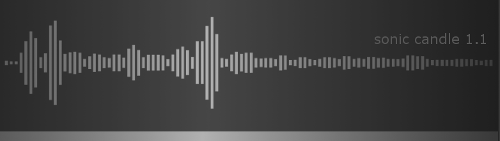
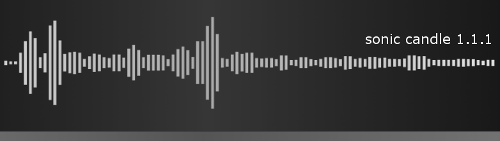
Added cancel ability, finished up disable controls durring render. Updated header to 1.1.1

Changed region(s): [[0.0, 0.0, 1.0, 1.0], [0.15, 0.9078, 0.66, 1.0]]

diff --git a/src/main/java/com/soniccandle/controller/MainController.java b/src/main/java/com/soniccandle/controller/MainController.java
@@ -25,9 +25,11 @@ public class MainController implements ActionListener {
 	public static final String SET_OUTPUT_MP4 = "SET_OUTPUT_MP4";
 	public static final String SET_BG_OTHER_IMAGE = "SET_BG_OTHER_IMAGE";
 	public static final String RENDER = "RENDER";
+	public static final String CANCEL_RENDER = "CANCEL_RENDER";
 	
 	public MainModel m;
 	public MainView v;
+	private RenderSwingWorker renderSwingWorker;
 	
 	public void actionPerformed(ActionEvent e) {
 		if (SET_INPUT_WAV.equals(e.getActionCommand())) {
@@ -109,7 +111,9 @@ public class MainController implements ActionListener {
 				outputter = new ImageSeqVideoOutputter(m.audioFile, m.outputTo);
 			}
 
-			RenderSwingWorker renderSwingWorker = new RenderSwingWorker();
+			renderSwingWorker = new RenderSwingWorker();
+			renderSwingWorker.c = this;
+			renderSwingWorker.m = m;
 			renderSwingWorker.audioFile = m.audioFile;
 			renderSwingWorker.outputTo = m.outputTo;
 			renderSwingWorker.outputter = outputter;
@@ -121,7 +125,6 @@ public class MainController implements ActionListener {
 			renderSwingWorker.outputter.width = renderSwingWorker.width;
 			renderSwingWorker.outputter.height = renderSwingWorker.height;
 			renderSwingWorker.outputter.frameRate = renderSwingWorker.videoFrameRate;
-			renderSwingWorker.progressBar = m.progressBar;
 
 			if (m.flatColorRb.isSelected()) {
 				BufferedImage backgroundImage = new BufferedImage(renderSwingWorker.width, renderSwingWorker.height, BufferedImage.TYPE_INT_ARGB);
@@ -132,7 +135,7 @@ public class MainController implements ActionListener {
 				backgroundImageG.fillRect(0, 0, renderSwingWorker.width, renderSwingWorker.height);
 				renderSwingWorker.backgroundImage = backgroundImage;
 			}
-			else if (m.builtInIimageRb.isSelected()) {
+			else if (m.builtInImageRb.isSelected()) {
 	    		ClassLoader loader = Thread.currentThread().getContextClassLoader();
 	    		BufferedImage backgroundImage = null;
 	    		try {
@@ -163,8 +166,13 @@ public class MainController implements ActionListener {
 			}
 
 			m.progressBar.setEnabled(true);
+			lockWhileRendering();
 			renderSwingWorker.execute();
 			JOptionPane.showMessageDialog(m.pane, "Takes a sec for progress bar to show: give it a moment.");
+		}
+		
+		if (CANCEL_RENDER.equals(e.getActionCommand())) {
+			renderSwingWorker.cancel(true);
 		}
 	}
 
@@ -176,5 +184,37 @@ public class MainController implements ActionListener {
 		} else {
 			m.renderButton.setEnabled(false);
 		}
-	} 
+	}
+	
+	public void lockWhileRendering() {
+		m.setAudioButton.setEnabled(false);
+		m.setOutputButton.setEnabled(false);
+		m.renderButton.setText("cancel render");
+		m.renderButton.setActionCommand(CANCEL_RENDER);
+		m.outputMethod.setEnabled(false);
+		m.bgColorGreen.setEnabled(false);
+		m.bgColorBlue.setEnabled(false);
+		m.bgColorRed.setEnabled(false);
+		m.flatColorRb.setEnabled(false);
+		m.builtInImageRb.setEnabled(false);
+		m.bgBuiltIn.setEnabled(false);
+		m.otherImageRb.setEnabled(false);
+		m.setBgOtherImageButton.setEnabled(false);
+	}
+	
+	public void unlockAfterRender() {
+		m.setAudioButton.setEnabled(true);
+		m.setOutputButton.setEnabled(true);
+		m.renderButton.setText("render");
+		m.renderButton.setActionCommand(RENDER);
+		m.outputMethod.setEnabled(true);
+		m.bgColorGreen.setEnabled(true);
+		m.bgColorBlue.setEnabled(true);
+		m.bgColorRed.setEnabled(true);
+		m.flatColorRb.setEnabled(true);
+		m.builtInImageRb.setEnabled(true);
+		m.bgBuiltIn.setEnabled(true);
+		m.otherImageRb.setEnabled(true);
+		m.setBgOtherImageButton.setEnabled(true);
+	}
 }

diff --git a/src/main/java/com/soniccandle/view/MainView.java b/src/main/java/com/soniccandle/view/MainView.java
@@ -47,7 +47,6 @@ public class MainView {
 
 		GridBagConstraints topC = new GridBagConstraints();
 		topC.fill = GridBagConstraints.HORIZONTAL;
-		JButton button;
 		JLabel label;
 
 		JLabel headerLabel = getHeaderLabel();
@@ -66,13 +65,13 @@ public class MainView {
 		inOutC.insets = new Insets(5, 5, 5, 5);
 		inOutC.fill = GridBagConstraints.BOTH;
 
-		button = new JButton("set input wav");
-		button.setActionCommand(MainController.SET_INPUT_WAV);
-		button.addActionListener(c);
+		m.setAudioButton = new JButton("set input wav");
+		m.setAudioButton.setActionCommand(MainController.SET_INPUT_WAV);
+		m.setAudioButton.addActionListener(c);
 		inOutC.weightx = 0.2;
 		inOutC.gridx = 0;
 		inOutC.gridy = 0;
-		inOutPanel.add(button, inOutC);
+		inOutPanel.add(m.setAudioButton, inOutC);
 
 		m.audioFileNameLabel = new JLabel("  (no file chosen)");
 		m.audioFileNameLabel.setOpaque(true);
@@ -98,13 +97,13 @@ public class MainView {
 		inOutC.gridy = 1;
 		inOutPanel.add(m.outputMethod, inOutC);
 
-		button = new JButton("set output location");
-		button.setActionCommand(MainController.SET_OUTPUT_MP4);
-		button.addActionListener(c);
+		m.setOutputButton = new JButton("set output location");
+		m.setOutputButton.setActionCommand(MainController.SET_OUTPUT_MP4);
+		m.setOutputButton.addActionListener(c);
 		inOutC.weightx = 0.2;
 		inOutC.gridx = 0;
 		inOutC.gridy = 2;
-		inOutPanel.add(button, inOutC);
+		inOutPanel.add(m.setOutputButton, inOutC);
 
 		m.outputToNameLabel = new JLabel("  (no file or folder chosen)");
 		m.outputToNameLabel.setOpaque(true);
@@ -138,13 +137,13 @@ public class MainView {
 		bgC.gridy = 0;
 		bgPanel.add(m.flatColorRb, bgC);
 
-		m.builtInIimageRb = new JRadioButton(BG_BUILT_IN_IMAGE);
-		m.builtInIimageRb.setActionCommand(BG_BUILT_IN_IMAGE);
-		m.builtInIimageRb.addActionListener(c);
-		m.bgTypeGroup.add(m.builtInIimageRb);
+		m.builtInImageRb = new JRadioButton(BG_BUILT_IN_IMAGE);
+		m.builtInImageRb.setActionCommand(BG_BUILT_IN_IMAGE);
+		m.builtInImageRb.addActionListener(c);
+		m.bgTypeGroup.add(m.builtInImageRb);
 		bgC.gridx = 1;
 		bgC.gridy = 0;
-		bgPanel.add(m.builtInIimageRb, bgC);
+		bgPanel.add(m.builtInImageRb, bgC);
 
 		m.otherImageRb = new JRadioButton(BG_OTHER_IMAGE);
 		m.otherImageRb.setActionCommand(BG_OTHER_IMAGE);
@@ -195,10 +194,10 @@ public class MainView {
 		label = new JLabel("background image, png or jpg, "+Main.WIDTH+"x"+Main.HEIGHT);
 		m.bgOtherImagePanel.add(label);
 
-		button = new JButton("set");
-		button.setActionCommand(MainController.SET_BG_OTHER_IMAGE);
-		button.addActionListener(c);
-		m.bgOtherImagePanel.add(button);
+		m.setBgOtherImageButton = new JButton("set");
+		m.setBgOtherImageButton.setActionCommand(MainController.SET_BG_OTHER_IMAGE);
+		m.setBgOtherImageButton.addActionListener(c);
+		m.bgOtherImagePanel.add(m.setBgOtherImageButton);
 
 		m.bgImageNamelabel = new JLabel("  (no file chosen)  ");
 		m.bgImageNamelabel.setOpaque(true);

diff --git a/src/main/java/com/soniccandle/controller/RenderSwingWorker.java b/src/main/java/com/soniccandle/controller/RenderSwingWorker.java
@@ -5,9 +5,9 @@ import java.io.File;
 import java.util.List;
 
 import javax.swing.JOptionPane;
-import javax.swing.JProgressBar;
 import javax.swing.SwingWorker;
 
+import com.soniccandle.model.MainModel;
 import com.soniccandle.model.SimpleRenderer;
 import com.soniccandle.model.VideoOutputter;
 import com.soniccandle.model.XuggleVideoOutputter;
@@ -21,7 +21,8 @@ public class RenderSwingWorker extends SwingWorker<Boolean, Integer> {
 	public File outputTo;
 	public VideoOutputter outputter;
 	public BufferedImage backgroundImage;
-	public JProgressBar progressBar;
+	public MainController c;
+	public MainModel m;
 
 	@Override
 	public Boolean doInBackground() {
@@ -31,7 +32,7 @@ public class RenderSwingWorker extends SwingWorker<Boolean, Integer> {
 			renderer.backgroundImage = backgroundImage;
 			renderer.outputter = outputter;
 			renderer.start();
-			while (!renderer.isDone) {
+			while (!renderer.isDone && !Thread.currentThread().isInterrupted()) {
 				renderer.renderNextFrame();
 				this.publish(renderer.progress);
 			}
@@ -45,15 +46,20 @@ public class RenderSwingWorker extends SwingWorker<Boolean, Integer> {
     @Override
     protected void process(List<Integer> progresses) {
     	Integer progress = progresses.get(progresses.size() - 1);
-    	progressBar.setValue(progress);
+    	m.progressBar.setValue(progress);
     }
 	
 	@Override
     public void done() {
+		c.unlockAfterRender();
+		if (m.progressBar.getValue() < 99) {
+			JOptionPane.showMessageDialog(null, "Canceled - may not have created entire video =\\");
+			return;
+		}
 		if (outputter instanceof XuggleVideoOutputter && outputTo.length() < 100) {
 			JOptionPane.showMessageDialog(null, "Ooof - looks like there was a problem, sorry.  Please check that your adio file is 16-bit wav, not 24 or 32, thanks!  Other bitrates coming soon, hopefully.");
 			return;
-		} 
+		}
 		
 		JOptionPane.showMessageDialog(null, "Done!");
 	}

diff --git a/src/main/java/com/soniccandle/model/MainModel.java b/src/main/java/com/soniccandle/model/MainModel.java
@@ -16,9 +16,11 @@ import javax.swing.JTextField;
 public class MainModel {
 	public JFileChooser fc;
 	public Container pane;
+	public JButton setAudioButton;
 	public JLabel audioFileNameLabel;
 	public File audioFile;
 	public File outputTo;
+	public JButton setOutputButton;
 	public JLabel outputToNameLabel;
 	public JButton renderButton;
 	public JProgressBar progressBar;
@@ -31,9 +33,10 @@ public class MainModel {
 	public JPanel bgOtherImagePanel;
 	public File backgroundImageFile;
 	public JLabel bgImageNamelabel;
+	public JButton setBgOtherImageButton;
 	public ButtonGroup bgTypeGroup;
 	public JComboBox<String> bgBuiltIn;
 	public JRadioButton flatColorRb;
-	public JRadioButton builtInIimageRb;
+	public JRadioButton builtInImageRb;
 	public JRadioButton otherImageRb;
 }
